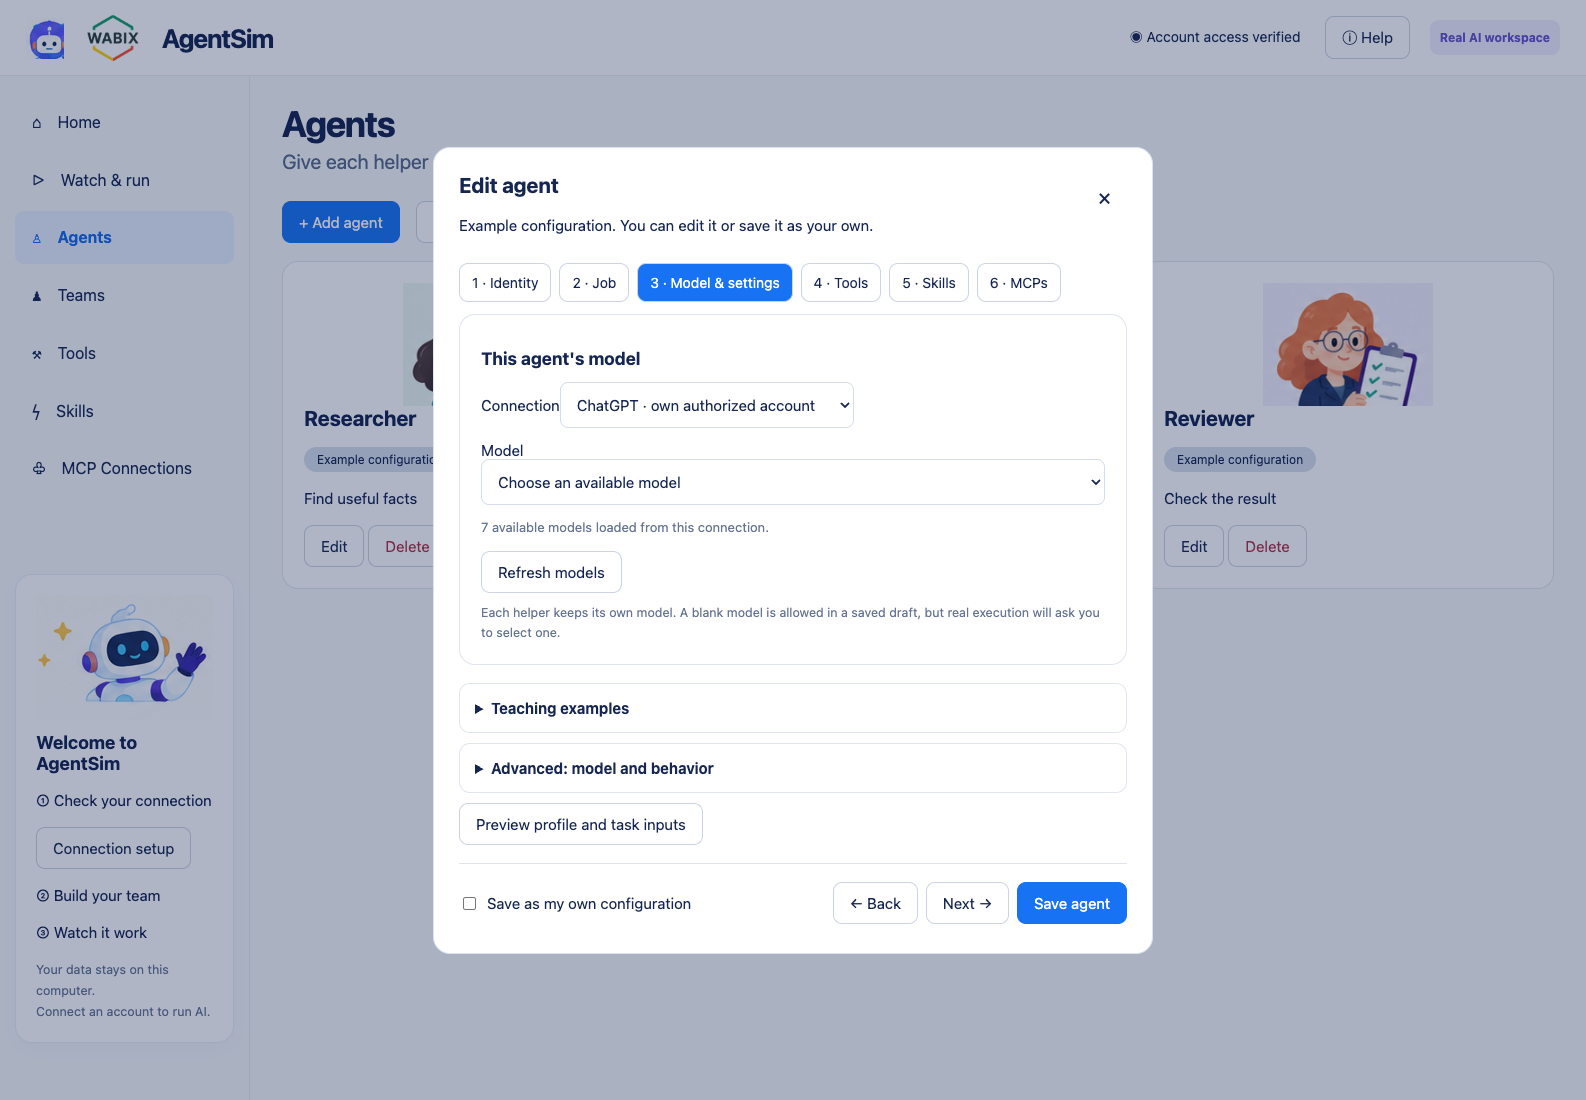
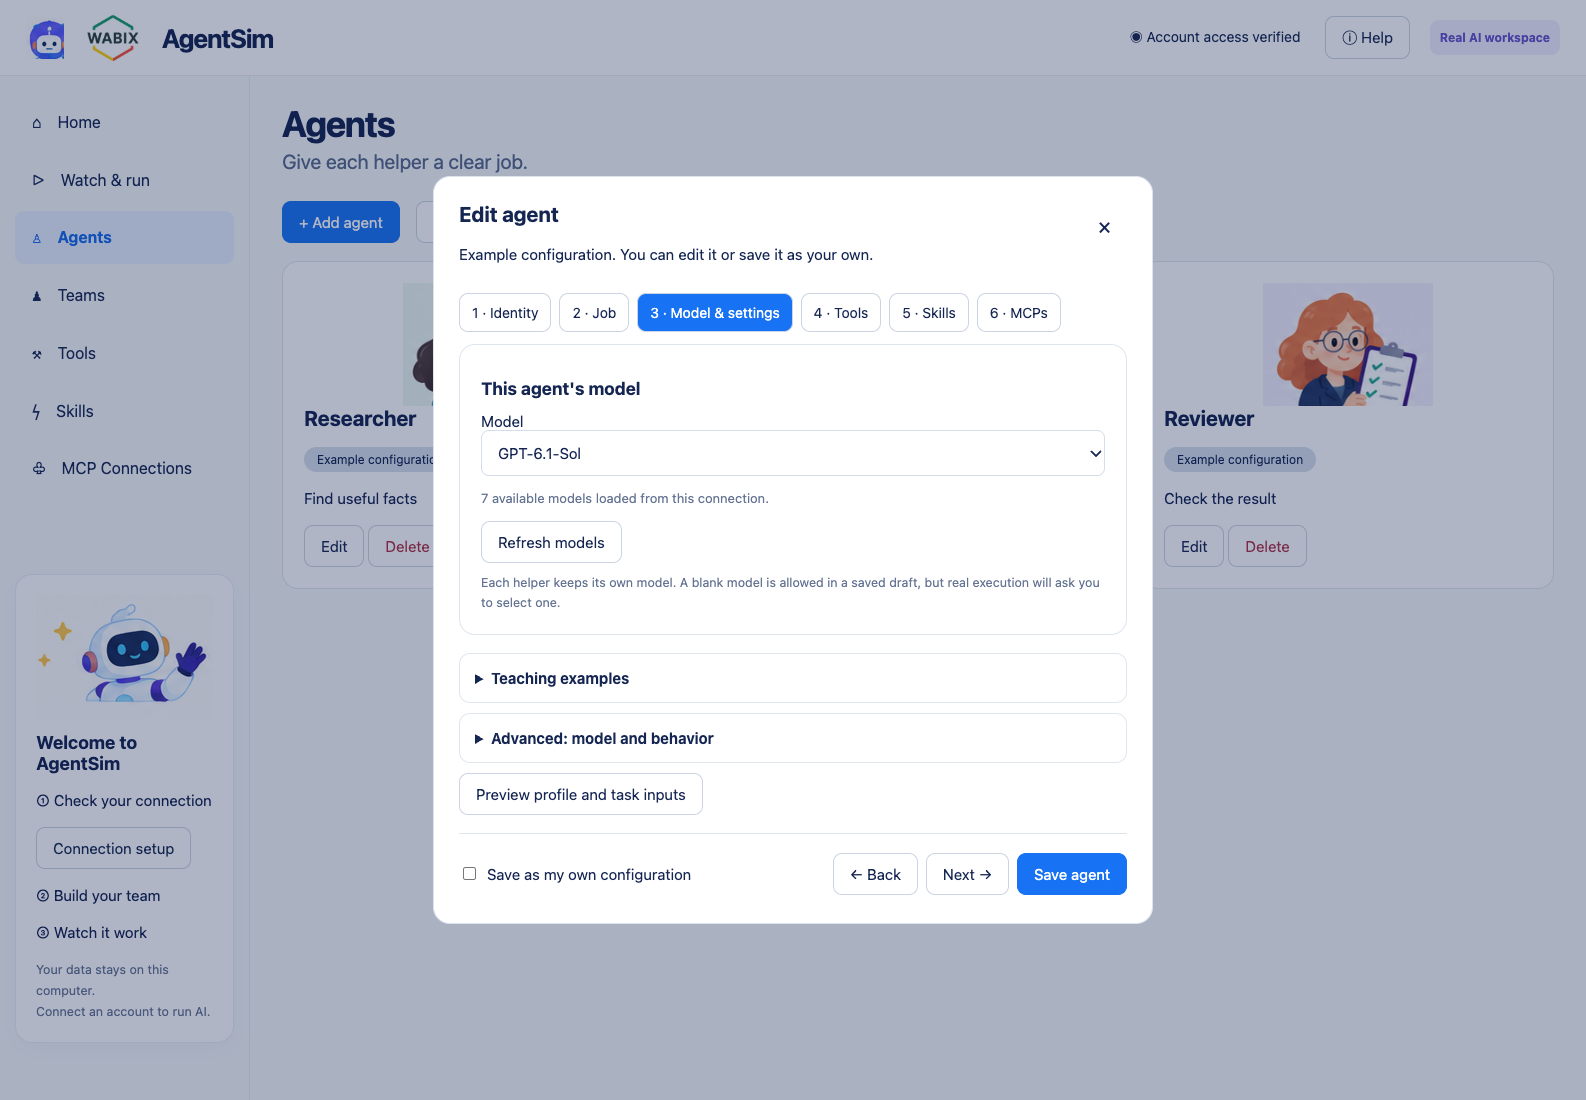
Use connected account automatically in agent model selection

Changed region(s): [[0.2472, 0.1236, 0.7415, 0.8655]]

diff --git a/static/app.js b/static/app.js
@@ -392,7 +392,7 @@ function agentEditor(id) {
       )
       .join(
         "",
-      )}</div><form id="agentForm" novalidate><section id="panel-profile" role="tabpanel" aria-labelledby="tab-profile"><fieldset class="avatar-choices"><legend>Choose a character</legend>${["researcher", "writer", "reviewer", "robot"].map((v) => `<label class="avatar-choice"><input type="radio" name="avatar" value="${v}" ${(a.avatar || "robot") === v ? "checked" : ""}><span class="avatar ${avatarClass(v)}" aria-hidden="true"></span><span>${v[0].toUpperCase() + v.slice(1)}</span></label>`).join("")}</fieldset><div class="form-grid">${field("name", "Name", "A short label, such as Picnic researcher.")}${field("role", "Role or specialty", "What is this helper good at? Used as CrewAI role.")}</div></section><section id="panel-job" role="tabpanel" aria-labelledby="tab-job" hidden><h3>What should this helper do?</h3>${field("goal", "Goal", "The job this helper should achieve. Used as CrewAI goal.", true)}${field("purpose", "What is this helper for?", "Helps the agent understand its purpose.", true)}${field("backstory", "Context and characteristics", "Background, audience and expertise. Used in CrewAI backstory.", true)}${field("instructions", "Instructions and boundaries", "How should it work? Be concrete. These instructions are sent with its task.", true)}${field("expectedOutput", "Expected result", "Describe the answer you want. Used as the task expected output.", true)}</section><section id="panel-settings" role="tabpanel" aria-labelledby="tab-settings" hidden><section class="panel"><h3>This agent's model</h3><label class="field">Connection<select name="agentConnection" id="agentConnection"><option value="chatgpt">ChatGPT · own authorized account</option><option value="api">API · own saved provider credentials</option></select></label><label class="field">Model<select name="modelName" id="agentModel" aria-describedby="agentModelStatus"><option value="">Choose an available model</option>${a.model.name ? `<option value="${esc(a.model.name)}" selected>${esc(a.model.name)} · saved, availability not checked</option>` : ""}</select></label><p id="agentModelStatus" class="muted" role="status" aria-live="polite">Models load from this agent's connection when you open this step.</p><button type="button" id="agentModels">Refresh models</button><small class="model-hint">Each helper keeps its own model. A blank model is allowed in a saved draft, but real execution will ask you to select one.</small></section><details><summary>Teaching examples</summary><p>Examples show a style. They are clearly marked as examples, not the current goal or verified facts.</p>${field("exampleInput", "Example input", "", true)}${field("exampleOutput", "Example answer", "", true)}</details><details><summary>Advanced: model and behavior</summary><p>Optional model parameters are sent only when set. Model selection belongs to this agent.</p><div class="form-grid"><label class="field">Temperature (optional)<input type="number" step="0.1" min="0" max="2" name="temperature" value="${a.model.temperature ?? ""}"><small>Blank leaves the provider default. Some models reject temperature; a failed request is shown, never silently changed.</small></label><label class="field">Output token limit (optional)<input type="number" min="16" max="16000" name="maxOutputTokens" value="${a.model.maxOutputTokens ?? ""}"><small>Sent as max_output_tokens only when set. Check your model's supported limits.</small></label><label class="field">CrewAI context budget<input type="number" name="contextWindow" min="4096" max="2000000" value="${a.model.contextWindow ?? 32000}"><small>Used by CrewAI to manage long conversations. Set it to your model's actual capacity; this does not enlarge the model.</small></label>${[
+      )}</div><form id="agentForm" novalidate><section id="panel-profile" role="tabpanel" aria-labelledby="tab-profile"><fieldset class="avatar-choices"><legend>Choose a character</legend>${["researcher", "writer", "reviewer", "robot"].map((v) => `<label class="avatar-choice"><input type="radio" name="avatar" value="${v}" ${(a.avatar || "robot") === v ? "checked" : ""}><span class="avatar ${avatarClass(v)}" aria-hidden="true"></span><span>${v[0].toUpperCase() + v.slice(1)}</span></label>`).join("")}</fieldset><div class="form-grid">${field("name", "Name", "A short label, such as Picnic researcher.")}${field("role", "Role or specialty", "What is this helper good at? Used as CrewAI role.")}</div></section><section id="panel-job" role="tabpanel" aria-labelledby="tab-job" hidden><h3>What should this helper do?</h3>${field("goal", "Goal", "The job this helper should achieve. Used as CrewAI goal.", true)}${field("purpose", "What is this helper for?", "Helps the agent understand its purpose.", true)}${field("backstory", "Context and characteristics", "Background, audience and expertise. Used in CrewAI backstory.", true)}${field("instructions", "Instructions and boundaries", "How should it work? Be concrete. These instructions are sent with its task.", true)}${field("expectedOutput", "Expected result", "Describe the answer you want. Used as the task expected output.", true)}</section><section id="panel-settings" role="tabpanel" aria-labelledby="tab-settings" hidden><section class="panel"><h3>This agent's model</h3><label class="field">Model<select name="modelName" id="agentModel" aria-describedby="agentModelStatus"><option value="">Choose an available model</option>${a.model.name ? `<option value="${esc(a.model.name)}" selected>${esc(a.model.name)} · saved, availability not checked</option>` : ""}</select></label><p id="agentModelStatus" class="muted" role="status" aria-live="polite">Models load automatically from your connected account.</p><button type="button" id="agentModels">Refresh models</button><small class="model-hint">Each helper keeps its own model. A blank model is allowed in a saved draft, but real execution will ask you to select one.</small></section><details><summary>Teaching examples</summary><p>Examples show a style. They are clearly marked as examples, not the current goal or verified facts.</p>${field("exampleInput", "Example input", "", true)}${field("exampleOutput", "Example answer", "", true)}</details><details><summary>Advanced: model and behavior</summary><p>Optional model parameters are sent only when set. Model selection belongs to this agent.</p><div class="form-grid"><label class="field">Temperature (optional)<input type="number" step="0.1" min="0" max="2" name="temperature" value="${a.model.temperature ?? ""}"><small>Blank leaves the provider default. Some models reject temperature; a failed request is shown, never silently changed.</small></label><label class="field">Output token limit (optional)<input type="number" min="16" max="16000" name="maxOutputTokens" value="${a.model.maxOutputTokens ?? ""}"><small>Sent as max_output_tokens only when set. Check your model's supported limits.</small></label><label class="field">CrewAI context budget<input type="number" name="contextWindow" min="4096" max="2000000" value="${a.model.contextWindow ?? 32000}"><small>Used by CrewAI to manage long conversations. Set it to your model's actual capacity; this does not enlarge the model.</small></label>${[
       [
         "maxIterations",
         "Maximum work cycles",
@@ -454,15 +454,14 @@ function agentEditor(id) {
   );
   const stepKeys = ["profile", "job", "settings", "tools", "skills", "mcps"];
   let activeStep = 0,
-    modelRequest = 0;
+    modelRequest = 0,
+    activeConnection = null;
   const modelCache = new Map(),
     selectedModels = new Map([
       [a.model.connection || "chatgpt", a.model.name || ""],
     ]);
   const modelPicker = $("#agentModel"),
-    connectionPicker = $("#agentConnection"),
     modelStatus = $("#agentModelStatus");
-  connectionPicker.value = a.model.connection || "chatgpt";
   const showModels = (models, connection) => {
     const saved = selectedModels.get(connection) || "";
     const hasSaved = models.some((m) => m.id === saved);
@@ -481,10 +480,9 @@ function agentEditor(id) {
     modelStatus.className = "muted";
   };
   const loadModels = async (force = false) => {
-    const connection = connectionPicker.value,
-      request = ++modelRequest;
-    if (!force && modelCache.has(connection)) {
-      showModels(modelCache.get(connection), connection);
+    const request = ++modelRequest;
+    if (!force && activeConnection && modelCache.has(activeConnection)) {
+      showModels(modelCache.get(activeConnection), activeConnection);
       modelPicker.removeAttribute("aria-busy");
       $("#agentModels").disabled = false;
       return;
@@ -494,19 +492,23 @@ function agentEditor(id) {
     modelPicker.setAttribute("aria-busy", "true");
     $("#agentModels").disabled = true;
     try {
+      const settings = await api("settings");
+      if (request !== modelRequest || $("#agentModel") !== modelPicker) return;
+      const connection = settings.provider;
       const response = await api("models", { connection });
       if (request !== modelRequest || $("#agentModel") !== modelPicker) return;
       const models = response.models.filter(
         (m, i, all) =>
           typeof m.id === "string" && all.findIndex((x) => x.id === m.id) === i,
       );
+      activeConnection = connection;
       modelCache.set(connection, models);
       showModels(models, connection);
     } catch (e) {
       if (request !== modelRequest || $("#agentModel") !== modelPicker) return;
-      const saved = selectedModels.get(connection) || "";
+      const saved = selectedModels.get(activeConnection || a.model.connection) || "";
       modelPicker.innerHTML =
-        '<option value="">Connect this account to load models</option>' +
+        '<option value="">Connect your account to load models</option>' +
         (saved
           ? `<option value="${esc(saved)}">${esc(saved)} · saved, availability not checked</option>`
           : "");
@@ -525,18 +527,7 @@ function agentEditor(id) {
     }
   };
   modelPicker.onchange = () =>
-    selectedModels.set(connectionPicker.value, modelPicker.value);
-  connectionPicker.onchange = () => {
-    const connection = connectionPicker.value,
-      saved = selectedModels.get(connection) || "";
-    modelPicker.innerHTML =
-      '<option value="">Choose an available model</option>' +
-      (saved
-        ? `<option value="${esc(saved)}">${esc(saved)} · saved, availability not checked</option>`
-        : "");
-    modelPicker.value = saved;
-    loadModels();
-  };
+    selectedModels.set(activeConnection || a.model.connection, modelPicker.value);
   $("#agentModels").onclick = () => loadModels(true);
   const switchTab = (key) => {
     activeStep = stepKeys.indexOf(key);
@@ -594,7 +585,7 @@ function agentEditor(id) {
     ].forEach((k) => (obj[k] = f.get(k)));
     obj.model = {
       mode: "custom",
-      connection: f.get("agentConnection"),
+      connection: activeConnection || a.model.connection || "chatgpt",
       name: modelPicker.value,
       temperature:
         f.get("temperature") === "" ? null : Number(f.get("temperature")),

diff --git a/KnowledgeBase/AGENT_PROFILES.md b/KnowledgeBase/AGENT_PROFILES.md
@@ -1,6 +1,6 @@
 # Agent profile schema and real framework mapping
 
-The editor has six separate steps: **1 Identity** (character, name, role), **2 Job** (goal through expected result), **3 Model & settings** (connection, model dropdown, examples and advanced settings), then **4 Tools**, **5 Skills**, **6 MCPs**. Only the selected panel is visible; switching tabs preserves unsaved inputs. Import setup and Export setup remain in Agents/Teams.
+The editor has six separate steps: **1 Identity** (character, name, role), **2 Job** (goal through expected result), **3 Model & settings** (model dropdown from the connected account, examples and advanced settings), then **4 Tools**, **5 Skills**, **6 MCPs**. Only the selected panel is visible; switching tabs preserves unsaved inputs. Import setup and Export setup remain in Agents/Teams.
 
 `profiles.py` validates and migrates every legacy agent in place. Old `job` becomes `goal`; `job` remains a synchronized compatibility alias. Existing ids, memberships, permissions, saved runs and user text are preserved. The expanded profile is stored in the existing SQLite database. New installations start empty; loading examples is an explicit merge, not a reset. Original bundled helper definitions are labeled Example configuration. That label describes the configuration source, not proof that an AI request has run.
 
@@ -15,7 +15,7 @@ The editor has six separate steps: **1 Identity** (character, name, role), **2 J
 | purpose | Included as labeled context in backstory |
 | exampleInput / exampleOutput | Included inside explicitly delimited `teaching_examples`, identified as style examples rather than current goal or verified facts |
 | expectedOutput | CrewAI `Task.expected_output` |
-| model.connection | This agent's own ChatGPT or API connection; global credentials do not replace its model |
+| model.connection | Account connection resolved automatically when loading models; retained in saved profiles for execution |
 | model.name | This agent's Responses model; each team member has its own LLM adapter |
 | model.temperature | Sent only when explicitly set; rejection is shown, no silent fallback |
 | model.maxOutputTokens | Sent as `max_output_tokens` only when set |
@@ -26,8 +26,8 @@ The editor has six separate steps: **1 Identity** (character, name, role), **2 J
 | behavior.maxRequestsPerMinute | CrewAI `max_rpm`; 0 means no additional CrewAI limiter |
 | behavior.respectContextWindow | CrewAI `respect_context_window` |
 
-Model selection is per agent. Draft profiles can be saved with an empty model name, but real execution is blocked until each selected helper has a model and its chosen connection passes a provider access check. A legacy shared model, when present, is copied into each legacy profile once during migration; later global changes cannot override agent models. Different agents can use different models and different ChatGPT/API connections in the same sequential crew.
+Model selection is per agent. Draft profiles can be saved with an empty model name, but real execution is blocked until each selected helper has a model and its chosen connection passes a provider access check. A legacy shared model, when present, is copied into each legacy profile once during migration; later global changes cannot override agent models. Different agents can use different models. Existing imported profiles may retain different connection types; the editor uses the current account automatically when models are loaded.
 
 Profile preview displays user-configured inputs, without credentials. CrewAI adds its own framework/task instructions; the preview does not claim to show hidden model reasoning or every framework-generated token. There are no new magician illustrations in this release: the selector uses only approved, existing artwork.
 
-Model lists load automatically when step 3 opens and when its connection changes. The dropdown contains models returned by the existing provider catalog endpoint, not a hardcoded list. Refresh models reloads it. Unsaved selections survive step changes. A saved model absent from a returned catalog is explicitly labeled; failed discovery keeps a saved value without presenting it as verified availability. Back/Next move between configuration steps; real execution still progresses automatically.
+Model lists load automatically when step 3 opens, using the account selected in Connection setup. There is no connection selector in the agent editor. The dropdown contains models returned by the existing provider catalog endpoint, not a hardcoded list. Refresh models reloads it. Unsaved selections survive step changes. A saved model absent from a returned catalog is explicitly labeled; failed discovery keeps a saved value without presenting it as verified availability. Back/Next move between configuration steps; real execution still progresses automatically.

diff --git a/KnowledgeBase/STATUS.md b/KnowledgeBase/STATUS.md
@@ -41,3 +41,7 @@ No public deployment. Commits and push are reported in the delivery message and 
 The original Profile step is now split into three visible panels, followed by Tools, Skills and MCPs. Back/Next and direct step navigation retain unsaved name, avatar, job and model values. Model discovery runs automatically in step 3 and on connection changes; it populates a real select control. JavaScript syntax and browser checks passed. Existing backend/runtime mappings were unchanged by this UI revision.
 
 During this verification, the existing ChatGPT connection reported provider-verified access and its model catalog returned **7 available models**. This supersedes the earlier delivery's unverified model-list status. This UI task did not perform a new sign-in, inspect credential contents, or execute external inference. No user agent data was changed by the browser checks (the editor was closed without saving).
+
+## Account model selection simplification
+
+Removed the per-agent ChatGPT/API selector. Step 3 resolves the account from Connection setup and automatically loads its catalog, preserving model selection per agent and saved connection metadata for execution. Browser verification found no connection selector, seven actual account models, and selection retained across step changes. Closed the editor without saving user data. JavaScript syntax check and all 27 backend tests passed (6.805 seconds). No external inference performed.

diff --git a/KnowledgeBase/REQUIREMENTS.md b/KnowledgeBase/REQUIREMENTS.md
@@ -23,3 +23,5 @@ Real AI is the primary experience; disconnected Home must automatically open Con
 External HTTP MCP configuration and use are in scope: registry management, authentication, discovery, granular grants, schema-validated calls, clear errors, local secrets and controlled-endpoint verification, independent of OAuth access limits. No Brain Mentoria AI credential is authorized for the controlled tests.
 
 Latest profile navigation refinement: split the original step 1 into Identity (character, name and role), Job (remaining fields through Expected result), and Model & settings (available-model dropdown and remaining configuration). Keep Tools, Skills and MCPs as following separate steps. Populate the model dropdown from the selected connection automatically.
+
+- Account connection is configured once. Remove the per-agent ChatGPT/API selector; automatically load the connected account catalog while keeping model choice per agent.
